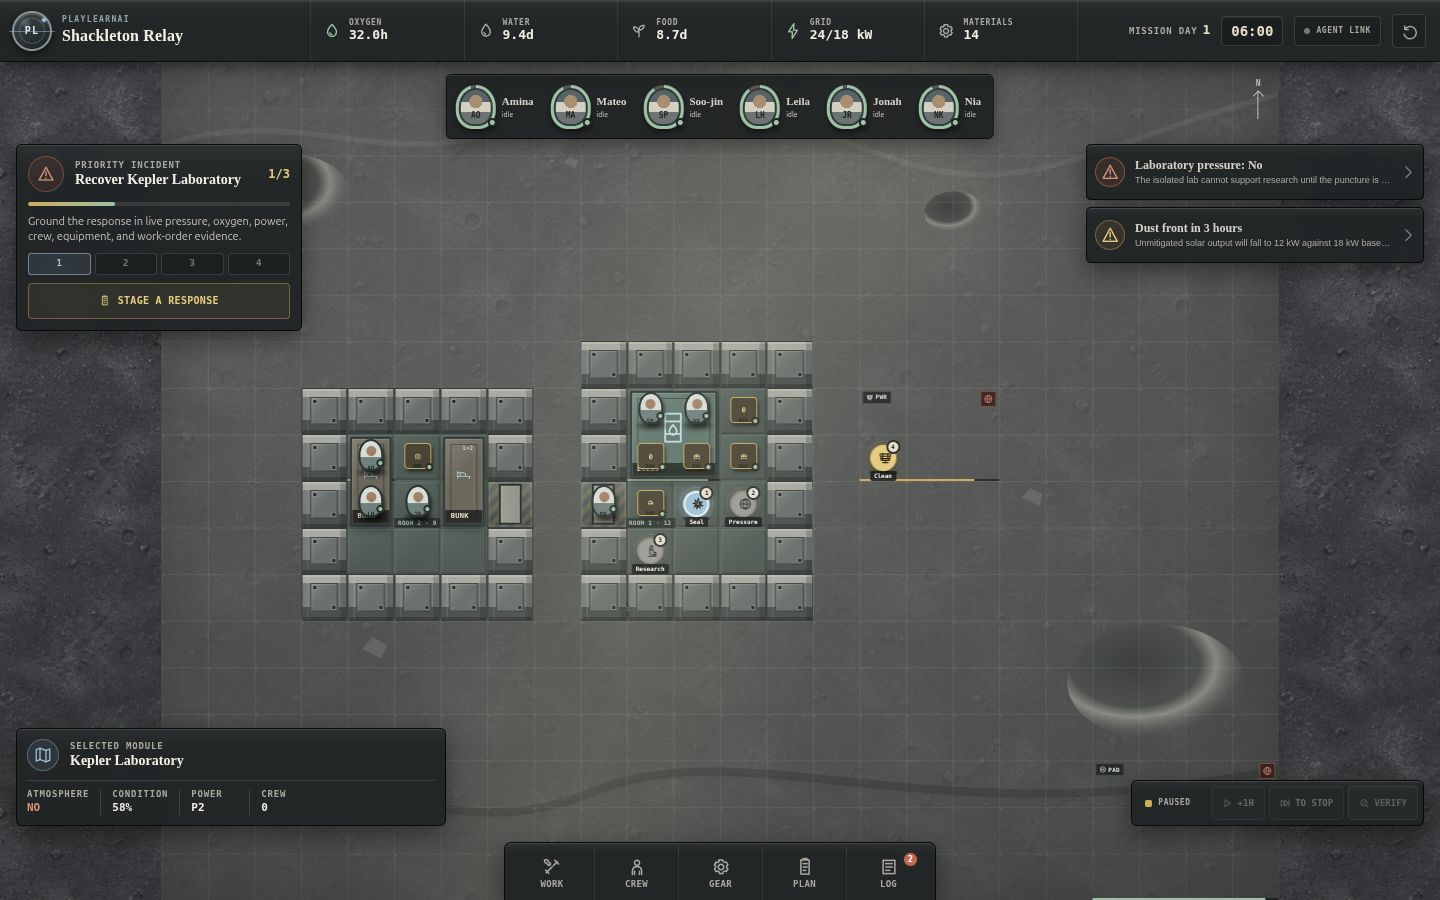
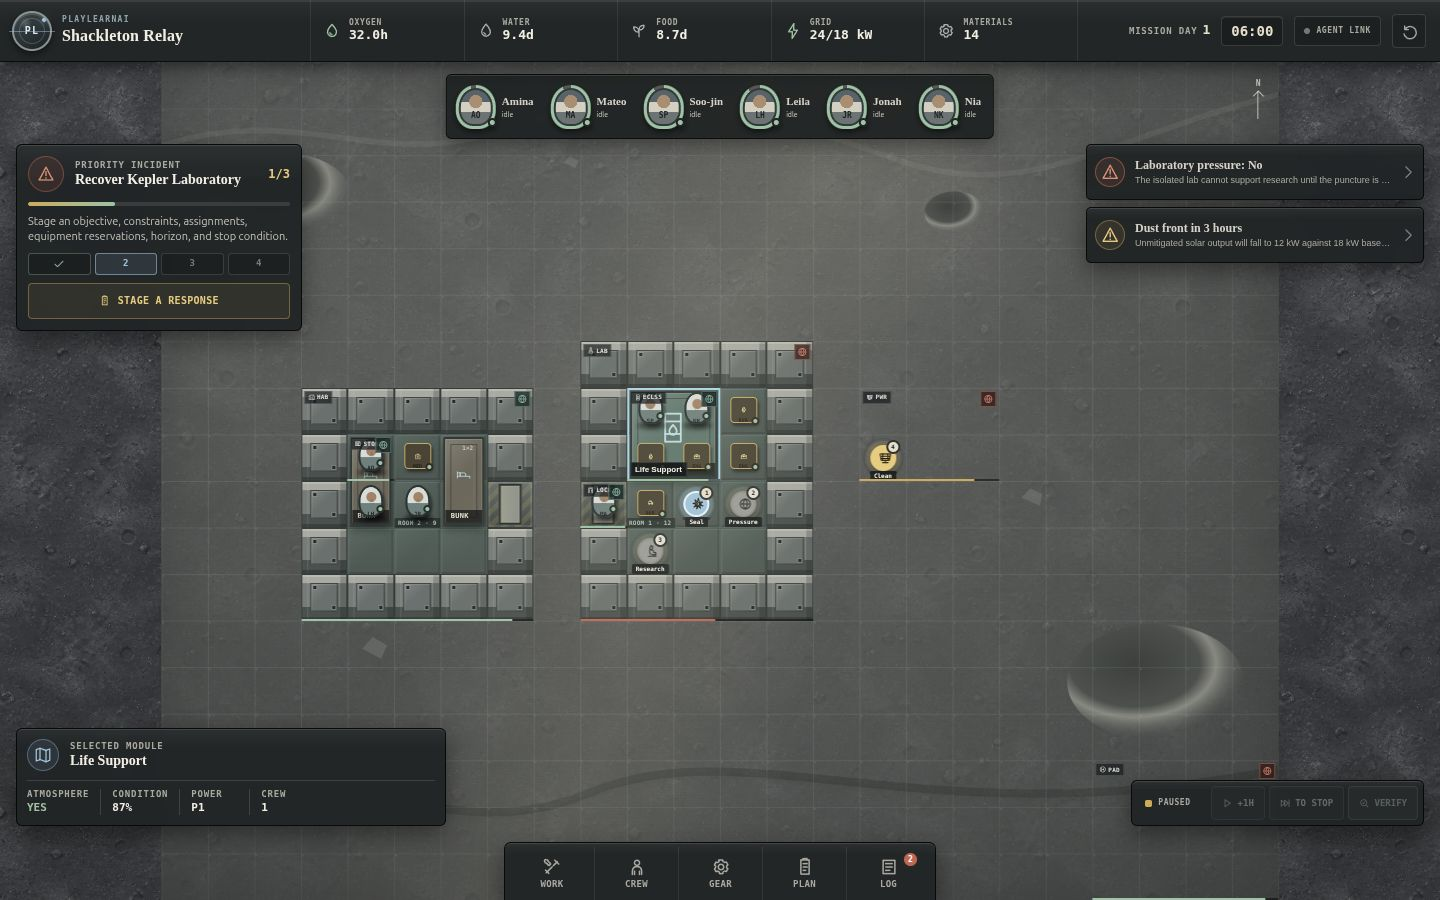
fix: keep nested module targets clickable

diff --git a/src/App.test.tsx b/src/App.test.tsx
@@ -368,6 +368,11 @@ describe('freeform settlement builder', () => {
       [...moduleTargets].map((target) => `${target.style.gridColumn}|${target.style.gridRow}`),
     )
     expect(moduleTargetAreas.size).toBe(moduleTargets.length)
+    const lifeSupportTarget = within(operationsMap).getByRole('button', { name: /Inspect Life Support/i })
+    const laboratoryTarget = within(operationsMap).getByRole('button', { name: /Inspect Kepler Laboratory/i })
+    expect(Number(lifeSupportTarget.style.zIndex)).toBeGreaterThan(
+      Number(laboratoryTarget.style.zIndex),
+    )
     expect(operations.modules.find((module) => module.id === 'module-laboratory')?.position).toEqual({
       x: 9,
       y: 2,

diff --git a/src/components/MoonbaseMap.tsx b/src/components/MoonbaseMap.tsx
@@ -658,7 +658,9 @@ export function MoonbaseMap({
               boxShadow: 'none',
               gridColumn: `${module.position.x + 1} / span ${module.position.width}`,
               gridRow: `${module.position.y + 1} / span ${module.position.height}`,
-              zIndex: 4,
+              zIndex: constructionLayout
+                ? 40 - Math.min(30, module.position.width * module.position.height)
+                : 4,
             }}
             type="button"
           >
